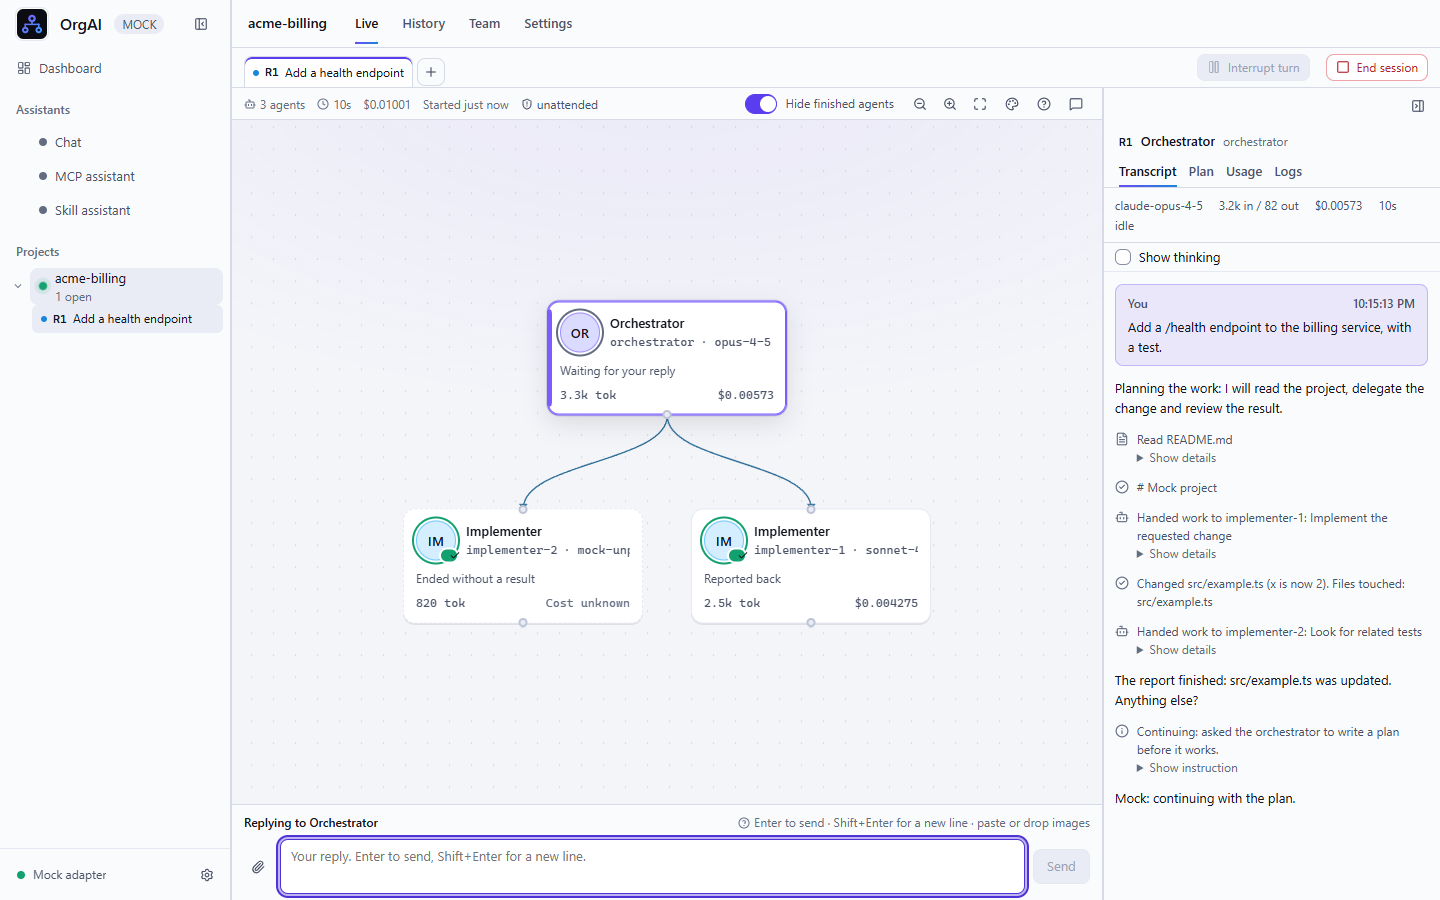
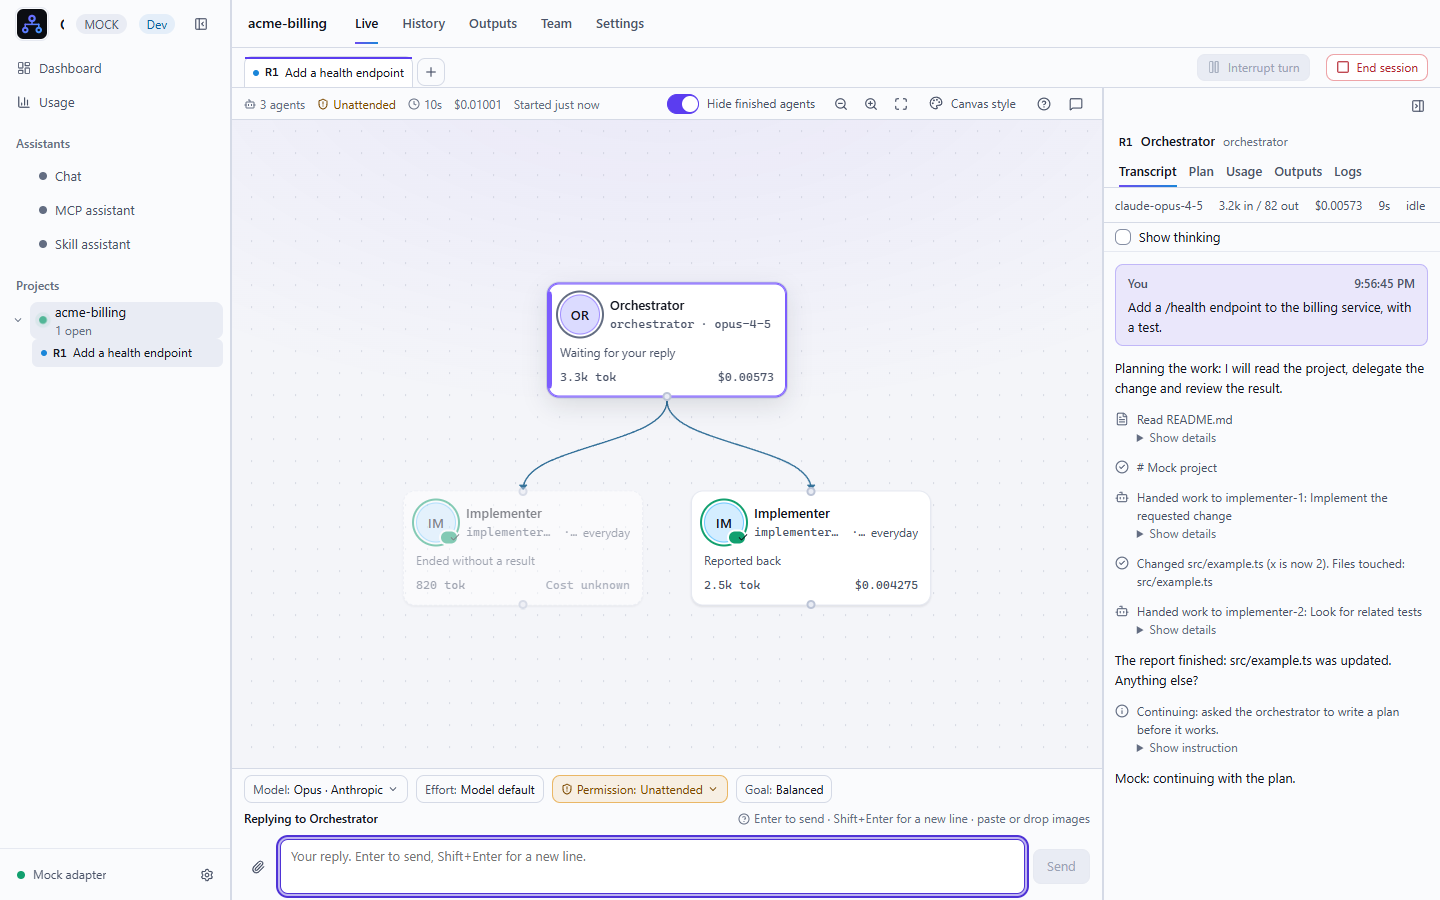
README: refresh text and media from dev (Pocket Office, run settings, model switching, Outputs, fact-check fixes)
Docs and media only, taken from dev 05b1f244, plus docs/design/tui-style.md which the README links to.

diff --git a/README.md b/README.md
@@ -6,10 +6,12 @@
 
 **Run a project's org chart of AI agents and watch the work happen.**
 
+Made by [Cybrid Software LLC](https://cybridsoftware.com).
+
 [![Latest release](https://img.shields.io/github/v/release/perrychapman/OrgAI?label=release)](https://github.com/perrychapman/OrgAI/releases/latest)
 [![CI](https://github.com/perrychapman/OrgAI/actions/workflows/ci.yml/badge.svg?branch=dev)](https://github.com/perrychapman/OrgAI/actions/workflows/ci.yml)
 [![License: MIT](https://img.shields.io/badge/license-MIT-blue)](LICENSE)
-![Platforms](https://img.shields.io/badge/platforms-Windows%20%7C%20macOS%20%7C%20Linux-informational)
+![Platforms](https://img.shields.io/badge/platforms-Windows%20%7C%20macOS%20%28untested%29-informational)
 
 [Download](#download) · [Quick start](#quick-start) · [How it works](docs/how-it-works.md) · [Contributing](CONTRIBUTING.md)
 
@@ -21,8 +23,42 @@
 
 OrgAI is a desktop app. You describe a team as an org chart (roles, prompts, tools, who may delegate to whom), give it
 a task, and the live view draws that chart as the work runs: every agent appears on the canvas the moment it is
-spawned, with its state, activity, tokens and cost. It runs on your own Claude Code login or API key, Codex (OpenAI) or
-a LiteLLM proxy. Projects, runs and settings are stored on your computer.
+spawned, with its state, activity, tokens and cost. It runs on your own Claude Code login or API key, Codex (OpenAI), or
+a LiteLLM or other OpenAI-compatible proxy. Projects, runs and settings are stored on your computer.
+
+## Terminal workspace
+
+After building, run `npm run cli -- tui` (or `orgai` when installed on your PATH). The terminal opens with a
+window-sized workspace with the conversation on the left, the configured team on the right, and a prompt at the bottom.
+Agent colors match across the conversation and roster. A shimmering activity line above the prompt describes the reported work,
+with elapsed time and token totals; one footer keeps the remaining status and shortcuts together.
+Type `/` for searchable commands, Ctrl+O to expand tool details, and Tab to move between panes.
+Decisions appear inline above the prompt; Shift+Tab selects the decision without interrupting ordinary typing.
+Esc twice interrupts a working run from the composer. Enter sends; Alt+Enter adds a line.
+
+Folders that are not registered projects open setup choices in the same terminal flow, at the current window size. Use Up/Down and
+Enter to choose a quick run, guided setup, or the default team; the numbered shortcuts still work. The orgai TUI
+answers every approval and question card itself.
+
+`--inline` keeps the conversation in terminal scrollback. `--ax-screen-reader` uses plain labels, and
+`--no-color` disables styling. Set `ORGAI_REDUCED_MOTION=1` to keep shimmer and activity indicators still. Animation also
+stays off in inline mode, for screen readers, dumb terminals and no-color output. Spinners appear only while a
+folder check, project setup, or run is actually working.
+
+The input surface follows `COLORFGBG` when available, with a readable dark default.
+Set `ORGAI_THEME=light` or `ORGAI_THEME=dark` to choose its appearance explicitly.
+The [terminal style guide](docs/design/tui-style.md) follows the app's theme tokens: violet actions, blue work,
+distinct agent labels and message directions, and green/amber/red status text. The logo is white on dark and dark ink on light.
+
+Agent messages appear beside the team, with recent exchanges in the agent inspector (Enter on an agent).
+The transcript marks teammates joining and finishing, renders basic Markdown, and groups completed tool
+activity; Enter in the transcript expands or collapses those groups. A finished run shows its recorded
+outcome, elapsed time, file changes and check results. Message previews are bounded and begin when the
+terminal attaches; they are not a reconstructed message history.
+
+![Terminal run from prompt through delegation, inline approval, and completion](docs/media/tui-team-dark.gif)
+
+*Actual TUI captured with scripted agents in an isolated demo project: prompt, delegation, inline approval, an approved file edit, and completion. [Light version](docs/media/tui-team-light.gif).*
 
 | | |
 | --- | --- |
@@ -36,9 +72,28 @@ a LiteLLM proxy. Projects, runs and settings are stored on your computer.
 
 The orchestrator and every subagent show up on the canvas as they are created, attached to the agent that spawned
 them. Click an agent for its transcript, open the Plan, Usage and Logs tabs, or hide finished agents to keep a big
-run readable. The canvas has several styles, in dark and light themes.
+run readable. The canvas has several styles, in dark and light themes. Each agent shows the model tier and effort it
+runs on, and the Plan tab shows which steps are ready, waiting or running.
 
 <p align="center"><img src="docs/media/hero-light.png" alt="The same run in the light theme: an orchestrator with two implementers, one reported back and one ended without a result." width="80%"></p>
+
+Prefer something livelier? Switch the canvas presentation to **Pocket Office**: the team becomes one pixel-art building
+you pan and zoom, with the orchestrators in the lobby and each department in its own room. People who are working type
+at their desks, new agents walk in through the front door, an agent waiting on you raises a hand, and messages appear
+as bubbles at the person they are for, with a message log below the scene. Pause motion stops every animation, and
+the scene stays still when your system asks for reduced motion.
+
+<p align="center"><img src="docs/media/office.gif" alt="A run in the Pocket Office view: the orchestrator's lobby and two department rooms, reports working at their desks, a message bubble over a report, and the message log below showing the orchestrator handing work to a report and the reply." width="100%"></p>
+
+### Choose how each run runs
+
+Above the composer, a run settings row shows the model, effort, permission mode and goal for the run. Change them
+before you start, or switch the model and the permission mode while the conversation goes on (a wider permission
+mode asks you to confirm first). Switching to a model on another connection asks you to end the session first; your next
+message then carries the conversation over to the new model. The orchestrator also picks a tier and effort for each report it starts, within the limits you set
+on the chart.
+
+<p align="center"><img src="docs/media/run-settings.png" alt="The new-run page with the Model, Effort, Permission and Goal chips above the composer and the Permission picker open on its six modes." width="80%"></p>
 
 ### Set up with an Architect
 
@@ -59,7 +114,7 @@ reports to whom. Templates and team files in the repository let a team travel wi
 
 The Dashboard collects every decision waiting on you across projects, the runs in progress, last week's cost and the
 state of your connections. Approvals come as cards (allow once, for the session, or for the project), so an unattended
-run stops only when it should.
+run stops only when it should. The Usage page breaks cost and tokens down by project, run and model.
 
 <p align="center"><img src="docs/media/dashboard.png" alt="The Dashboard: two decisions waiting under Needs you, five runs, three projects and a cost summary." width="100%"></p>
 
@@ -69,6 +124,12 @@ Engagement projects (work for a client or a case, in a plain folder) have a Know
 organisations, decisions and risks as they work, and you can read, edit and retire them in a list or on a graph.
 
 <p align="center"><img src="docs/media/knowledge.gif" alt="The Knowledge tab of an engagement: the list of recorded items, then the Graph view with Acme Corp, Jane Doe, a decision and a risk." width="100%"></p>
+
+### Keep what a run produces
+
+Documents, workbooks, slide decks, diagrams and data files that agents produce appear in the project's Outputs tab
+and in the run's side panel. A revision adds a new version instead of replacing the old one, and notes you leave on an
+output are passed to the agents the next time they revise it.
 
 ### Start from a repository
 
@@ -80,7 +141,7 @@ forks it with `gh`). A repository's own agent settings stay switched off until y
 ### Chat without a project
 
 Chat is an assistant that needs no project and is read-only unless you allow edits. There are also an MCP assistant and a Skill assistant that help
-you add tools and skills to your library.
+you add tools and skills to your library; you manage both under App settings > Connectors and Skill library.
 
 <p align="center"><img src="docs/media/chat.gif" alt="The Chat assistant: a question is typed and answered, then a follow-up." width="100%"></p>
 
@@ -101,8 +162,8 @@ Get the latest build from the [Releases page](https://github.com/perrychapman/Or
 
 1. **Install** OrgAI and start it.
 2. **Connect a provider** in App settings > Connections: sign in with Claude Code (`claude` then `/login`) or add an
-   Anthropic API key, or connect OpenAI (Codex) or a LiteLLM proxy. Claude is the most exercised connection; Codex and
-   LiteLLM are implemented but have seen less live use.
+   Anthropic API key, or connect OpenAI (Codex) or a LiteLLM or OpenAI-compatible proxy. Claude is the most exercised
+   connection; Codex and proxies are implemented but have seen less live use.
 3. **Create a project**: New project, point it at a repository folder, keep "Set up with the Architect" on, approve the
    proposals, then start a run from the Live tab.
 
@@ -111,9 +172,9 @@ project. It plays scripted agents and spends nothing.
 
 ## The `orgai` command
 
-A terminal front end to the same app and data. In an installed app, turn on Terminal access in App settings and
-install the command from General > Advanced > Terminal. From a checkout, run `npm run build` and then
-`npm run cli -- <command>`.
+A standalone terminal product, separate from the desktop app: it has its own data folder, its own settings and its own
+vault, and shares nothing with the app. Install it with `npm i -g orgai-cli`. From a checkout, run `npm run build` and
+then `npm run cli -- <command>`.
 
 ```text
 $ orgai runs list --project ./acme-billing
@@ -121,10 +182,9 @@ RUN  STATUS   NAME                   KIND  STARTED      COST
 R1   Stopped  Add a health endpoint  Run   1m ago   $0.01001
 ```
 
-`orgai projects list` lists your projects, `orgai exec "<task>"` runs a task headless, `orgai tui` opens a terminal view
-of a live run, `orgai decide` answers a decision card and `orgai doctor` checks your setup. `orgai --help` lists the
-rest. The CLI has been run on macOS in tests; the packaged shim has not been run on
-Windows or Linux yet.
+`orgai projects list` lists the projects the command knows, `orgai exec "<task>"` runs a task headless, `orgai tui`
+opens a terminal view (give a run, as in `orgai tui R1`, to open a saved one) and `orgai doctor` checks your setup.
+`orgai --help` lists the rest. The CLI has been run on macOS in tests; it has not been run on Windows or Linux yet.
 
 ## Build from source
 
@@ -138,7 +198,10 @@ npx electron .       # launch the built app
 ORGAI_MOCK=1 npm run dev   # scripted mock adapter: UI work with no tokens
 ```
 
-`npm run check` runs typecheck, unit tests, build and the free end-to-end flows; none of them spend tokens.
+In PowerShell, set the variable first: `$env:ORGAI_MOCK=1; npm run dev`.
+
+`npm run check` runs typecheck, unit tests, build and the free end-to-end flows; none of them spend tokens. The full
+end-to-end chain takes a while, and CI runs it on Windows and macOS on every push to dev.
 See [docs/testing.md](docs/testing.md) for the testing guide.
 
 ## Docs and contributing
@@ -154,4 +217,5 @@ OrgAI is built with an Electron main process, a React 19 renderer and TypeScript
 
 ## License
 
-OrgAI is released under the MIT License. See [LICENSE](LICENSE).
+OrgAI is made by [Cybrid Software LLC](https://cybridsoftware.com) and released under the MIT License. See
+[LICENSE](LICENSE).

diff --git a/docs/design/tui-style.md b/docs/design/tui-style.md
@@ -1,0 +1,98 @@
+# Terminal style
+
+The terminal follows [the design specification](spec.md), its [visual refinement](ui-review-2.md),
+and the current text colors in `src/renderer/src/styles/tokens.css`. The terminal equivalents live
+in `src/cli/tui/theme.ts`; tests check token parity and text contrast in both themes.
+
+| Element | Treatment |
+| --- | --- |
+| Logo | White on dark, dark ink on light; a brief violet sweep followed by a long quiet interval |
+| Commands, selected controls, prompt marker | Violet accent text |
+| Agent names | Bold, with stable violet, cyan, green, amber, pink and blue role colors shared by sidebar and transcript |
+| Active work | Blue glyph and a shimmering description of the reported activity |
+| Agent exchanges | Slate-blue direction marker, tinted sender/recipient, secondary body text |
+| Tools, paths, code | Secondary ink; prefix and indentation distinguish them from prose |
+| Success, attention, error | Green, amber, red respectively, always with words or glyphs |
+| Conversation | Terminal foreground, with bold headings and restrained inline formatting |
+| Input | Paired foreground and surface from the theme; readable secondary placeholders |
+
+The logo sweep is an explicit brand exception to the otherwise work-only motion rule. It appears
+only in the welcome/setup header, with one shared phase across the two logo rows. Menus, input
+surfaces, completed work and message bodies remain still. There is no glow or gradient behind text.
+Reduced motion, no color, screen readers, dumb terminals, inline mode and terminal suspension keep
+the logo static. Meaningful secondary text uses a foreground token without an additional dim effect.
+
+`ORGAI_THEME=dark` or `ORGAI_THEME=light` overrides `COLORFGBG`; dark is the fallback when the terminal
+does not advertise its theme. `ORGAI_REDUCED_MOTION=1` disables animation. Layout follows terminal
+dimensions, with plain text labels and selection markers preserved when styling is disabled.
+
+Previews use the actual Ink components with simulated task events, rendered entirely offscreen:
+[dark](../media/tui-team-dark.gif) and [light](../media/tui-team-light.gif).
+
+Wide terminals put the conversation on the left and the agent room, plan and worktrees in a right
+sidebar capped at 42 columns. A nonempty run plan appears automatically in the wide sidebar, directly below the
+compact team roster, with a task count and one pinned progress/ETA line, even in short panes. The checklist fills the available pane height with
+one-line task labels, without the goal paragraph, notes, or owners. Labels use a short leading phrase
+and mark omitted detail with an ellipsis. Lists that exceed the available height keep the active/blocked task visible; focus the pane
+to scroll the list. The ETA is a rough step-pace estimate
+from elapsed run time and completed steps; tasks can differ in size and prior waits remain part of elapsed time.
+It shows "Estimating" until progress exists, and suppresses estimates while blocked, awaiting a decision,
+paused, or ended. Skipped steps fill the bar without inflating the observed work rate. Continued runs establish a fresh
+observation baseline and wait for a newly completed step before estimating; reopening the pane restarts that observation. It remains visible at
+completion; pane visibility commands can still hide it. Narrow screens auto-show only blocked plans
+to preserve conversation space. Worktrees follow the plan when they need attention.
+Short conversations align to the bottom, keeping the latest message
+near the composer; scrolling up preserves the reading position. Agent inspection replaces the
+conversation and keeps the agent room visible. Narrow terminals keep the stacked layout. The composer
+uses a single footer row for run status, notices and essential shortcuts, with no separate hint row or gap below the input. Approval choices and their command details appear inline above the composer. A new request for the active run focuses its choices only when the prompt is empty and idle for at least 750 ms, with no overlay open and decision access available. Drafts and other panes retain focus; dismissed cards do not reclaim it. Shift+Tab from the composer or F2 from another pane selects
+the inline choices. Left/Right selects an action and Enter confirms it; letter shortcuts remain available. Esc returns to typing. Persistent grants still require their explicit second confirmation. Long permission bodies must still be read
+before approval, and the arrival guard prevents buffered keys from answering a new request.
+A single-agent sidebar shows only the name and state until focused. The fullscreen footer omits
+duplicate single-run titles, zero-decision counts and lone run chips; multiple-run navigation and
+connection warnings remain visible.
+
+The fullscreen conversation shows a bold agent heading when the speaker changes or after a user
+message. Prose has space to breathe; completed tool calls collapse into muted, single-line summaries,
+while failures remain visible. Ctrl+O toggles full tool commands and output from the composer or
+conversation without changing the draft. The activity row keeps one shimmering state label followed
+by elapsed run time and reported total tokens (including cache usage), with the interrupt hint at the right.
+The activity row and sidebar use the same reported activity, such as reading files, running tests,
+updating a plan or waiting for reports. Generic thinking falls back to "Working". Setup proposals show a short preview with a full
+review action, and quit confirmations occupy a compact area above the input while the conversation
+stays visible. Action hints include one way back to typing, without duplicate Escape labels.
+
+Completed assistant messages render Markdown tables as separated records, with bold column labels
+and wrapped values instead of raw pipes and separator rows. This layout stays readable when the
+sidebar or a narrow terminal leaves little room for columns. Inline Markdown links read as their
+label plus a numbered reference; full destinations appear once in a References block after the
+message. Code examples stay literal, and malformed tables or links remain visible as written.
+The same formatting applies in fullscreen and inline scrollback, including no-color and screen-reader
+modes. Streaming partials remain literal until committed; stored transcripts retain the original text.
+
+Verification (2026-11-09): all 870 TUI tests pass after merging upstream dev, including inline action selection, guarded Enter,
+draft preservation after idle, Escape dismissal and explicit persistent-grant confirmation. The CLI
+bundle builds and the token-free mock terminal walkthrough passes all checks, including automatic
+approval focus, Enter confirmation, paste protection, card-swap protection and external resolution.
+The walkthrough waits for the complete quit dialog and accepts tree guides before sidebar statuses.
+Full typecheck and desktop build remain blocked by the local missing `mermaid` dependency. The full
+repository suite was not rerun for this change; its earlier run encountered sandbox socket restrictions
+and an SDK/package-lock version mismatch. This is not a green repository-wide gate.
+
+Setup review cards are capped at 96 columns, with a left border, bold proposal title, secondary
+summary and timing text, and bracketed action keys separated from the preview by a blank line.
+The right sidebar includes the configured project team. Unstarted roles show "Available" in their
+reporting hierarchy; starting an agent replaces that role entry with its live state. Configured
+roles stay visible after completion. Enter on an available role opens its description without
+starting work. Projects without a configured team retain the run-agent view.
+
+Agent identity colors distinguish roles; they are not status indicators. State is carried separately
+by a labeled glyph and state text, so a green or amber agent name does not imply success or a warning.
+Tab follows the visible conversation column, then the sidebar from top to bottom.
+
+The wide team roster separates each agent name from its activity and adds a blank row between agents
+when the available height permits. Smaller panes fall back to two-line or single-line rows so names
+and decision badges stay reachable. The checklist remains below the roster.
+New agent-to-agent message events animate a brief sender-to-recipient courier beneath the roster and
+mark both participants. It lasts about 1.6 seconds, works even for idle agents, and settles to a static
+last-message label. Mounting history, switching runs, or resuming animation never replays old traffic.
+Reduced-motion, screen-reader, no-color, inline, and dumb-terminal modes retain a static message cue.
